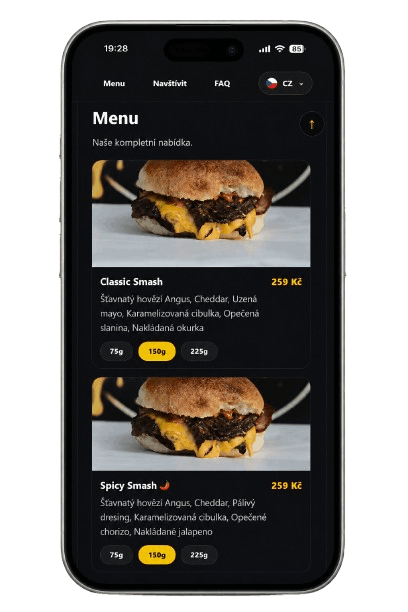
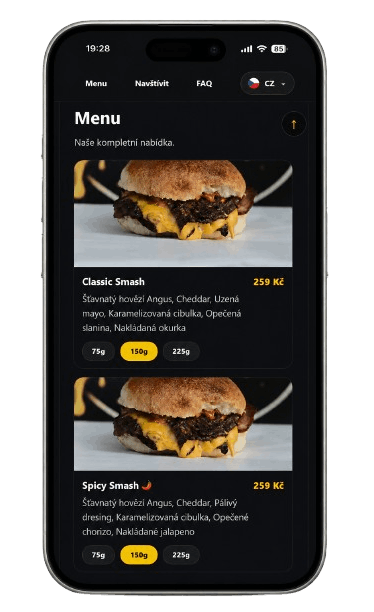
Final polish projects section / project details

diff --git a/project/mp-doors.html b/project/mp-doors.html
@@ -200,18 +200,22 @@
 
 <section class="project-showcase reveal">
 
-  <span class="project-eyebrow" data-cz="Ukázky" data-en="Showcase">
-  Ukázky
-</span> 
+    <div class="project-section-heading">
+      <span
+        class="project-eyebrow"
+        data-cz="Ukázky"
+        data-en="Preview"
+      >
+        Ukázky
+      </span>
 
-  <div class="project-section-heading">
-    <h2
-      data-cz="Vybrané části webu"
-      data-en="Selected parts of the website"
-    >
-      Vybrané části webu
-    </h2>
-  </div>
+      <h2
+        data-cz="Vybrané části webu"
+        data-en="Selected website sections"
+      >
+        Vybrané části webu
+      </h2>
+    </div>
 
   <div class="project-showcase-grid">
     <figure class="project-showcase-card reveal reveal-scale">
@@ -289,7 +293,7 @@
     <footer id="footer">
         <div class="container footer-inner">
             <div class="footer-brand">
-                <a href="../#hero" class="footer-logo">marek-codes</a>
+                <a href="/#hero" class="footer-logo">marek-codes</a>
                 <p data-cz="Moderní rychlé weby. Čistý design, výkon, detail."
                     data-en="Modern fast websites. Clean design, performance, detail.">
                     Moderní rychlé weby. Čistý design, výkon, detail.

diff --git a/project/zednictvi-kravciv.html b/project/zednictvi-kravciv.html
@@ -197,7 +197,7 @@
 
         <div class="project-facts">
           <div class="project-fact">
-            <span data-cz="Typ Projektu" data-en="Project type">Typ projektu</span>
+            <span data-cz="Typ projektu" data-en="Project type">Typ projektu</span>
             <strong data-cz="Prezentační web" data-en="Presentation website">
               Prezentační web
             </strong>
@@ -222,18 +222,22 @@
 
     <section class="project-showcase reveal">
 
-        <span class="project-eyebrow" data-cz="Ukázky" data-en="Showcase">
+    <div class="project-section-heading">
+      <span
+        class="project-eyebrow"
+        data-cz="Ukázky"
+        data-en="Preview"
+      >
         Ukázky
-      </span> 
+      </span>
 
-      <div class="project-section-heading">
-        <h2
-          data-cz="Vybrané části webu"
-          data-en="Selected parts of the website"
-        >
-          Vybrané části webu
-        </h2>
-      </div>
+      <h2
+        data-cz="Vybrané části webu"
+        data-en="Selected website sections"
+      >
+        Vybrané části webu
+      </h2>
+    </div>
 
       <div class="project-showcase-grid">
         <figure class="project-showcase-card reveal reveal-scale">
@@ -343,7 +347,7 @@
     <footer id="footer">
       <div class="container footer-inner">
         <div class="footer-brand">
-          <a href="../#hero" class="footer-logo">marek-codes</a>
+          <a href="/#hero" class="footer-logo">marek-codes</a>
           <p
             data-cz="Moderní rychlé weby. Čistý design, výkon, detail."
             data-en="Modern fast websites. Clean design, performance, detail."

diff --git a/css/project-detail.css b/css/project-detail.css
@@ -330,15 +330,15 @@
   content: "";
   position: absolute;
   left: 50%;
-  top: 52%;
+  top: 53%;
   width: 82%;
   height: 73%;
   transform: translate(-50%, -50%);
   background:
     radial-gradient(
       ellipse at center,
-      rgba(77, 171, 247, 0.66),
-      rgba(77, 171, 247, 0.48) 52%,
+      rgba(77, 171, 247, 0.68),
+      rgba(77, 171, 247, 0.58) 82%,
       transparent 92%
     );
   filter: blur(22px);
@@ -536,9 +536,9 @@
   }
 
   .project-mockup-phone {
-    width: 38%;
+    width: 34%;
     right: 0.75rem;
-    bottom: 0.2rem;
+    bottom: 0.35rem;
   }
 
   .project-meta--clean .project-title {
@@ -623,9 +623,9 @@
   }
 
   .project-mockup-phone {
-    width: 43%;
-    right: 0.35rem;
-    bottom: 0.15rem;
+    width: 32%;
+    right: 0.45rem;
+    bottom: 0.45rem;
   }
 
   .project-meta--clean .project-title {

diff --git a/project/bite-me.html b/project/bite-me.html
@@ -219,7 +219,7 @@
         <div class="project-showcase-grid">
             <figure class="project-showcase-card reveal reveal-scale">
             <img
-                src="/assets/img/PROJECT-DETAIL/biteme-menu.png"
+                src="/assets/img/project-detail/biteme-menu.png"
                 alt="Ukázka menu webu BITE ME Burgers"
                 loading="lazy"
             >
@@ -234,7 +234,7 @@
 
             <figure class="project-showcase-card reveal reveal-scale reveal-delay-1">
             <img
-                src="/assets/img/PROJECT-DETAIL/biteme-visit.png"
+                src="/assets/img/project-detail/biteme-visit.png"
                 alt="Ukázka sekce Navštívit webu BITE ME Burgers"
                 loading="lazy"
             >
@@ -290,7 +290,7 @@
     <footer id="footer">
         <div class="container footer-inner">
             <div class="footer-brand">
-                <a href="/index.html#hero" class="footer-logo">marek-codes</a>
+                <a href="/#hero" class="footer-logo">marek-codes</a>
                 <p data-cz="Moderní rychlé weby. Čistý design, výkon, detail."
                     data-en="Modern fast websites. Clean design, performance, detail.">
                     Moderní rychlé weby. Čistý design, výkon, detail.

diff --git a/css/projects.css b/css/projects.css
@@ -139,7 +139,7 @@
   border-radius: 18px;
   background: rgba(8, 11, 20, 0.6);
   border: 1px solid rgba(255, 255, 255, 0.11);
-  backdrop-filter: blur(16px);
+  backdrop-filter: blur(5px);
   box-shadow: 0 20px 45px rgba(0, 0, 0, 0.35);
   transform: translateY(calc(100% + 1.5rem));
   opacity: 0;
@@ -287,7 +287,7 @@
 
   .project-detail-link::after {
     opacity: 1;
-    transform: translateX(3px);
+    transform: translateX(0);
   }
 }
 